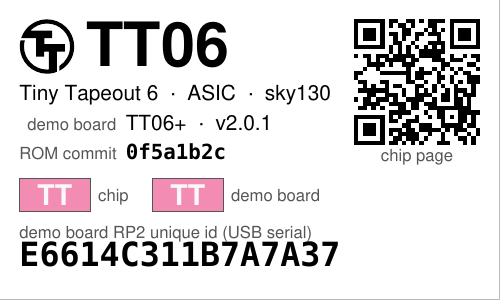
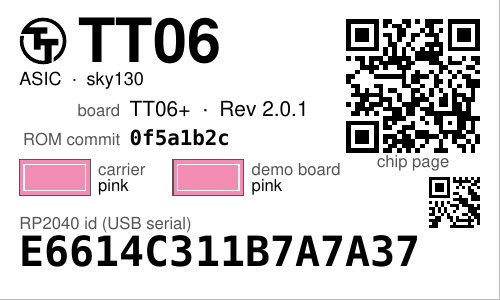
labels: Tiny Tapeout label reworked after the visual review
The colour boxes are always drawn: keyline rectangle in the board colour
with the silkscreen colour as an inner line, empty with "n/a" when the
colour is not recorded, the colour's name in 6 pt beside each, captions
"carrier" and "demo board" (the pink-on-pink "TT" glyph is gone). The
RP2 id at the foot is set like the FPGA label's DNA line (15 pt mono,
caption "RP2040 id (USB serial)" or RP2350 as the SDK reported) and gets
a small error-L QR above it in the right column, so every typeable
identifier is scannable; the chip-page QR grows to 17 mm with the 2.5 mm
quiet zone kept. The subtitle drops the restated shuttle name and is set
at the Pi subtitle's fixed 6.5 pt, so it never shrinks; the demo board
row reads "name  ·  Rev x.y" from both SDK forms; the row caption is
"board"; the mark is 6 mm centred on the headline's cap height; the rows
are on one pitch. README and the two example images follow.

Claude-Session: https://claude.ai/code/session_017ibyTnuBCnNY7ACKAkdRiT

Changed region(s): [[0.03, 0.03, 0.84, 0.9], [0.69, 0.06, 0.96, 0.78]]

diff --git a/src/rpi_hwid/labels.py b/src/rpi_hwid/labels.py
@@ -33,6 +33,7 @@ from __future__ import annotations
 import argparse
 import json
 import os
+import re
 import sys
 from dataclasses import dataclass
 from pathlib import Path
@@ -558,77 +559,100 @@ def draw_usb(lab, dev):
 
 
 def swatch(lab, x, y, w, h, colour, silk):
-    """A board-colour rectangle with a thin keyline, carrying "TT" in its
-    silkscreen colour the way the board's own legend does."""
+    """A colour-identification box: a keyline rectangle filled with the
+    board colour, with a thin inner line in the silkscreen colour when that
+    is known; empty with "n/a" inside when the colour is not recorded."""
     c = lab.c
     px, py = lab.pt(x, y + h)
-    c.setFillColor(HexColor(colour))
-    c.setStrokeColor(HexColor("#555555"))
+    c.setStrokeColor(GREY)
     c.setLineWidth(0.4)
-    c.rect(px, py, w, h, stroke=1, fill=1)
-    if silk:
-        size = h * 0.62 / 0.72
-        lab.text(x + w / 2, y + (h - size * 0.72) / 2, "TT", SANS_BOLD, size,
-                 align="centre", color=HexColor(silk))
+    if colour:
+        c.setFillColor(HexColor(colour))
+        c.rect(px, py, w, h, stroke=1, fill=1)
+        if silk:
+            inset = 0.6 * mm
+            c.setStrokeColor(HexColor(silk))
+            c.setLineWidth(0.5)
+            c.rect(px + inset, py + inset, w - 2 * inset, h - 2 * inset, stroke=1, fill=0)
+    else:
+        c.rect(px, py, w, h, stroke=1, fill=0)
+        lab.text(x + w / 2, y + (h - CAPTION * 0.72) / 2, "n/a", SANS, CAPTION,
+                 align="centre", color=GREY)
     c.setStrokeColor(black)
     c.setFillColor(black)
 
 
 def draw_tinytapeout(lab, tt):
-    """Left: the Tiny Tapeout mark and the shuttle as the headline, the
-    chip's long name, kind and PDK under it, then the demo board revision
-    and the ROM commit as captioned rows, then a colour swatch for the chip
-    carrier and one for the demo board so the right board is picked out
-    of a drawer. Right: a QR that opens the chip's page on tinytapeout.com.
-    Bottom, full width: the demo board's RP2 unique id, the one thing on
-    the board that cannot change."""
-    grey = HexColor("#555555")
-    qr_size = 16 * mm
+    """Left: the Tiny Tapeout mark beside the shuttle as the headline, the
+    chip's kind and PDK under it, then the demo board and the ROM commit as
+    captioned rows, then a colour box each for the chip carrier and the
+    demo board (board colour, silkscreen colour as the inner line, the
+    colour's name beside it) so the right board is picked out of a drawer.
+    Right: a QR that opens the chip's page on tinytapeout.com, and a small
+    QR of the RP2 id above the foot. Bottom, full width: the demo board's
+    RP2 unique id, its USB serial, the one thing on it that cannot change,
+    set like the FPGA label's DNA."""
+    # --- right column: the chip page QR, its caption, the id's QR ---
+    qr_size = 17 * mm
     qx = LABEL_W - PAD - qr_size
     lab.qr(qx, PAD, qr_size, tt.url)
-    lab.text(qx + qr_size / 2, PAD + qr_size + 0.6 * mm, "chip page", SANS, 6,
-             align="centre", color=grey)
-
-    x, y = PAD, PAD
-    col_w = qx - 2 * mm - x
-    mark_h = 7 * mm
-    w = mark_tinytapeout(lab, x, y, mark_h)
-    tx = x + (w + 1.5 * mm if w else 0)
-    lab.fit(tx, y + 0.4 * mm, tt.headline, SANS_BOLD, 22, col_w - (tx - x))
-    y += mark_h + 1.4 * mm
-    lab.fit(x, y, tt.subtitle, SANS, 7.5, col_w)
-    y += 3.9 * mm
-    cap_x = x + 13.5 * mm
-    lab.captioned(x, cap_x, y, "demo board", tt.demoboard_text, SANS, 7.5, col_w - 13.5 * mm)
-    y += 3.7 * mm
-    if tt.commit:
-        lab.captioned(x, cap_x, y, "ROM commit", tt.commit, MONO, 7.5, col_w - 13.5 * mm)
-    else:
-        lab.captioned(x, cap_x, y, "ROM", "not read", SANS, 7.5, col_w - 13.5 * mm)
-    y += 4.3 * mm
-
-    # the swatches: board colour with its silkscreen; the shuttle name in
-    # the swatch's place when the colour is not recorded
-    sw, sh = 9 * mm, 4.2 * mm
-    sx = x
-    for cap, colour, silk in (("chip", tt.chip_colour, tt.chip_silk),
-                              ("demo board", tt.demoboard_colour, tt.demoboard_silk)):
-        if colour:
-            swatch(lab, sx, y, sw, sh, colour, silk)
-        else:
-            lab.fit(sx, y + (sh - 7 * 0.72) / 2, tt.headline, SANS_BOLD, 7, sw)
-        lab.text(sx + sw + 1 * mm, y + (sh - 6 * 0.72) / 2, cap, SANS, 6, color=grey)
-        sx += sw + 1 * mm + lab.width(cap, SANS, 6) + 3 * mm
-
-    id_size = 12
-    id_h = 6.8 * mm
-    y = LABEL_H - PAD - id_h
-    lab.text(PAD, y, "demo board RP2 unique id (USB serial)", SANS, 6, color=grey)
-    y += 6 * 0.72 + 0.5 * mm
+    lab.text(qx + qr_size / 2, PAD + qr_size + 0.4 * mm, "chip page", SANS, CAPTION,
+             align="centre", color=GREY)
+    id_size = 15
+    id_h = 6 * mm
+    id_y = LABEL_H - PAD - id_h
+    id_qr = 6.5 * mm                   # 21 modules at 0.31 mm, like the Pi serial's
     if tt.usb_serial:
-        lab.fit(PAD, y, tt.usb_serial, MONO, id_size, LABEL_W - 2 * PAD)
+        # 1.2 mm (four modules) under the caption; the id line below it is
+        # shorter than the label, so nothing runs under the code
+        lab.qr(LABEL_W - PAD - id_qr, id_y - 0.5 * mm - id_qr, id_qr, tt.usb_serial,
+               error="l")
+
+    # --- left column ---
+    x, y = PAD, PAD
+    col_w = qx - 2.5 * mm - x
+    head_size = 22
+    head_cap = head_size * 0.72
+    mark_h = 6 * mm
+    w = mark_tinytapeout(lab, x, y + (head_cap - mark_h) / 2, mark_h)
+    tx = x + (w + 1.5 * mm if w else 0)
+    lab.fit(tx, y, tt.headline, SANS_BOLD, head_size, col_w - (tx - x))
+    y += head_cap + 1.2 * mm
+    lab.text(x, y, tt.subtitle, SANS, 6.5)          # fixed size, like the Pi subtitle
+    row = 3.7 * mm
+    y += row
+    cap_w = 14 * mm
+    lab.captioned(x, x + cap_w, y, "board", tt.demoboard_text, SANS, 7.5, col_w - cap_w)
+    y += row
+    if tt.commit:
+        lab.captioned(x, x + cap_w, y, "ROM commit", tt.commit, MONO, 7.5, col_w - cap_w)
     else:
-        lab.rule(PAD, y + id_size * 0.72, LABEL_W - 2 * PAD)
+        lab.captioned(x, x + cap_w, y, "ROM", "not read", SANS, 7.5, col_w - cap_w)
+    y += row
+
+    # the colour boxes, each with its caption over its colour's name
+    sw, sh = 9 * mm, 4.5 * mm
+    line = CAPTION * 0.72 + 0.6 * mm
+    for i, (cap, colour, silk, name) in enumerate((
+            ("carrier", tt.chip_colour, tt.chip_silk, tt.chip_colour_name),
+            ("demo board", tt.demoboard_colour, tt.demoboard_silk, tt.demoboard_colour_name))):
+        sx = x + i * (col_w / 2)
+        swatch(lab, sx, y, sw, sh, colour, silk)
+        if name:
+            ty = y + (sh - 2 * line + 0.6 * mm) / 2
+            lab.text(sx + sw + 1 * mm, ty, cap, SANS, CAPTION, color=GREY)
+            lab.text(sx + sw + 1 * mm, ty + line, name, SANS, CAPTION)
+        else:
+            lab.text(sx + sw + 1 * mm, y + (sh - CAPTION * 0.72) / 2, cap, SANS, CAPTION,
+                     color=GREY)
+
+    # --- the foot: the id, caption over it, like the DNA line ---
+    cap_y = id_y + 0.5 * mm - CAPTION * 0.72 - 0.9 * mm
+    lab.text(PAD, cap_y, "%s id (USB serial)" % (tt.mcu or "RP2"), SANS, CAPTION, color=GREY)
+    if tt.usb_serial:
+        lab.fit(PAD, id_y + 0.5 * mm, tt.usb_serial, MONO, id_size, LABEL_W - 2 * PAD)
+    else:
+        lab.rule(PAD, id_y + 0.5 * mm + id_size * 0.72 + 0.3 * mm, LABEL_W - 2 * PAD)
 
 
 # --- records from probe documents --------------------------------------------
@@ -677,17 +701,20 @@ class TinyTapeoutLabel:
 
     host: str
     headline: str                    # "TT06", "FPGA", "TT"
-    subtitle: str                    # "Tiny Tapeout 6  ·  ASIC  ·  sky130"
+    subtitle: str                    # "ASIC  ·  sky130"
     url: str                         # the chip page, or the chips index
-    demoboard_text: str
+    demoboard_text: str              # "TT06+  ·  Rev 2.0.1"
     shuttle: str | None = None
     chip: str | None = None
     commit: str | None = None
     usb_serial: str | None = None
+    mcu: str | None = None           # RP2040 | RP2350
     chip_colour: str | None = None   # hex, from the table
     chip_silk: str | None = None
+    chip_colour_name: str | None = None
     demoboard_colour: str | None = None
     demoboard_silk: str | None = None
+    demoboard_colour_name: str | None = None
 
 
 @dataclass(frozen=True)
@@ -746,6 +773,19 @@ def fpga_records(docs, pinned_names=None):
     return out
 
 
+def demoboard_text(detected, version):
+    """'TT06+' and 'v2.0.1' -> 'TT06+  ·  Rev 2.0.1'; the v3 SDK's
+    'TTDBv3 [3.2]' -> 'TTDBv3  ·  Rev 3.2'; nothing known -> 'not read'."""
+    name, rev = detected or "", None
+    m = re.match(r"^(.*?)\s*\[([^\]]*)\]$", name)
+    if m:
+        name, rev = m.group(1), m.group(2)
+    if not rev and version:
+        rev = version.lstrip("vV")
+    parts = [p for p in (name, ("Rev " + rev) if rev else "") if p]
+    return "  ·  ".join(parts) if parts else "not read"
+
+
 def tinytapeout_records(docs):
     """One record per Tiny Tapeout demo board across all documents."""
     out = []
@@ -755,24 +795,25 @@ def tinytapeout_records(docs):
             if b.chip == "fpga":
                 headline, parts = "FPGA", ["FPGA breakout, no ASIC"]
             elif b.shuttle:
-                headline = tt_data.shuttle_short(b.shuttle)
-                parts = [tt_data.shuttle_title(b.shuttle), "ASIC"]
+                headline, parts = tt_data.shuttle_short(b.shuttle), ["ASIC"]
                 pdk = tt_data.shuttle_pdk(b.shuttle)
                 if pdk:
                     parts.append(pdk)
             else:
                 headline, parts = "TT", ["shuttle not read"]
-            demo = [v for v in (b.demoboard, b.demoboard_version or info["demoboard_version"])
-                    if v]
             out.append(TinyTapeoutLabel(
                 host=host, headline=headline, subtitle="  ·  ".join(parts),
                 url=info["url"] or tt_data.CHIPS_INDEX_URL,
-                demoboard_text="  ·  ".join(demo) if demo else "not read",
+                demoboard_text=demoboard_text(
+                    b.demoboard, b.demoboard_version or info["demoboard_version"]),
                 shuttle=b.shuttle, chip=b.chip, commit=b.commit, usb_serial=b.usb_serial,
+                mcu=b.mcu,
                 chip_colour=tt_data.COLOURS.get(info["chip_colour"] or ""),
                 chip_silk=tt_data.COLOURS.get(info["chip_silk"] or ""),
+                chip_colour_name=info["chip_colour"],
                 demoboard_colour=tt_data.COLOURS.get(info["demoboard_colour"] or ""),
                 demoboard_silk=tt_data.COLOURS.get(info["demoboard_silk"] or ""),
+                demoboard_colour_name=info["demoboard_colour"],
             ))
     return out
 

diff --git a/tests/test_labels.py b/tests/test_labels.py
@@ -42,18 +42,31 @@ def test_fpga_records_named_and_typed(docs):
 def test_tinytapeout_records(docs):
     tt06, ihp = labels.tinytapeout_records(docs)
     assert tt06.headline == "TT06"
-    assert tt06.subtitle == "Tiny Tapeout 6  ·  ASIC  ·  sky130"
+    assert tt06.subtitle == "ASIC  ·  sky130"
     assert tt06.url == "https://tinytapeout.com/chips/tt06/"
-    assert tt06.demoboard_text == "TT06+  ·  v2.0.1"
+    assert tt06.demoboard_text == "TT06+  ·  Rev 2.0.1"
     assert tt06.commit == "0f5a1b2c"
     assert tt06.usb_serial == "E6614C311B7A7A37"
+    assert tt06.mcu == "RP2040"
     assert (tt06.chip_colour, tt06.chip_silk) == ("#f28cb3", "#f8f8f8")
+    assert (tt06.chip_colour_name, tt06.demoboard_colour_name) == ("pink", "pink")
     assert (tt06.demoboard_colour, tt06.demoboard_silk) == ("#f28cb3", "#f8f8f8")
     assert ihp.headline == "TTIHP25a"
-    assert ihp.subtitle == "Tiny Tapeout IHP 25a  ·  ASIC  ·  ihp-sg13g2"
-    assert ihp.demoboard_text == "TTDBv3 [3.2]"
+    assert ihp.subtitle == "ASIC  ·  ihp-sg13g2"
+    assert ihp.demoboard_text == "TTDBv3  ·  Rev 3.2"
+    assert ihp.mcu == "RP2350"
     assert ihp.chip_colour is None
+    assert ihp.chip_colour_name is None
     assert ihp.demoboard_colour is None
+
+
+def test_demoboard_text_normalises_both_sdk_forms():
+    assert labels.demoboard_text("TT06+", "v2.0.1") == "TT06+  ·  Rev 2.0.1"
+    assert labels.demoboard_text("TTDBv3 [3.3]", None) == "TTDBv3  ·  Rev 3.3"
+    assert labels.demoboard_text("TTDBv3 [3.3]", "v9") == "TTDBv3  ·  Rev 3.3"
+    assert labels.demoboard_text("TT04/TT05", None) == "TT04/TT05"
+    assert labels.demoboard_text(None, "v1.2.1") == "Rev 1.2.1"
+    assert labels.demoboard_text(None, None) == "not read"
 
 
 def test_tinytapeout_records_without_a_rom_or_with_the_fpga_breakout():
@@ -70,12 +83,13 @@ def test_tinytapeout_records_without_a_rom_or_with_the_fpga_breakout():
     assert blank.headline == "TT"
     assert blank.subtitle == "shuttle not read"
     assert blank.demoboard_text == "TT04/TT05"
+    assert blank.mcu is None
     assert blank.commit is None
     assert blank.usb_serial is None
     # a shuttle the table has no page for falls back to the chips index
     (t35,) = labels.tinytapeout_records({"h": doc({"shuttle": "tt03p5", "chip": "asic"})})
     assert t35.url == "https://tinytapeout.com/chips/"
-    assert t35.demoboard_text == "v1.2.1"
+    assert t35.demoboard_text == "Rev 1.2.1"
     assert t35.chip_colour == "#5c2d91"
 
 
@@ -124,6 +138,7 @@ def test_render_and_decode_every_qr(data_dir, tmp_path):
         "00:0e:c6:82:b5:e1",                              # the dongle
         "https://tinytapeout.com/chips/tt06/",            # the chip pages
         "https://tinytapeout.com/chips/ttihp25a/",
+        "E6614C311B7A7A37", "E66360B8A3C1D5F2",           # the demo boards' RP2 ids
         # the Pi serials, as a small QR at the top of each Pi label's spine
         "d88100008543dc30", "000000004fe3e7e4", "10000000ce8e3593",
         "000000005157f671", "c36b093f773d46b8", "100000003a7e1c9b",

diff --git a/tests/conftest.py b/tests/conftest.py
@@ -111,6 +111,7 @@ TT_HOST["verdict"]["tinytapeout"] = [
      "tty": "/dev/ttyACM0", "shuttle": "tt06", "chip": "asic",
      "repo": "TinyTapeout/tinytapeout-06", "commit": "0f5a1b2c", "demoboard": "TT06+",
      "demoboard_version": "v2.0.1", "sdk": "2.0.4", "machine": "Raspberry Pi Pico with RP2040",
+     "mcu": "RP2040",
      "chip_url": "https://tinytapeout.com/chips/tt06/",
      "how": "Tiny Tapeout SDK 2.0.4 on Raspberry Pi Pico with RP2040 (USB 1-1.2); "
             "chip ROM shuttle=tt06; demo board TT06+"},
@@ -118,16 +119,16 @@ TT_HOST["verdict"]["tinytapeout"] = [
      "tty": "/dev/ttyACM1", "shuttle": "ttihp25a", "chip": "asic",
      "repo": "TinyTapeout/tinytapeout-ihp-25a", "commit": "7b3d9e02",
      "demoboard": "TTDBv3 [3.2]", "demoboard_version": None, "sdk": "3.1.1",
-     "machine": "TinyTapeout RP2350B Core with RP2350",
+     "machine": "TinyTapeout RP2350B Core with RP2350", "mcu": "RP2350",
      "chip_url": "https://tinytapeout.com/chips/ttihp25a/",
      "how": "Tiny Tapeout SDK 3.1.1 on TinyTapeout RP2350B Core with RP2350 (USB 1-1.3); "
             "chip ROM shuttle=ttihp25a; demo board TTDBv3 [3.2]"},
 ]
 TT_HOST["verdict"]["summary"]["tinytapeout"] = [
-    {"usb_serial": "E6614C311B7A7A37", "shuttle": "tt06", "chip": "asic",
+    {"usb_serial": "E6614C311B7A7A37", "mcu": "RP2040", "shuttle": "tt06", "chip": "asic",
      "repo": "TinyTapeout/tinytapeout-06", "commit": "0f5a1b2c", "demoboard": "TT06+",
      "demoboard_version": "v2.0.1", "sdk": "2.0.4"},
-    {"usb_serial": "E66360B8A3C1D5F2", "shuttle": "ttihp25a", "chip": "asic",
+    {"usb_serial": "E66360B8A3C1D5F2", "mcu": "RP2350", "shuttle": "ttihp25a", "chip": "asic",
      "repo": "TinyTapeout/tinytapeout-ihp-25a", "commit": "7b3d9e02",
      "demoboard": "TTDBv3 [3.2]", "demoboard_version": None, "sdk": "3.1.1"},
 ]

diff --git a/README.md b/README.md
@@ -186,12 +186,16 @@ concerned, `2e8a:0005` "MicroPython" "Board in FS mode" with the RP2's
 flash unique id as its serial. What makes it a Tiny Tapeout board is the
 SDK, so the module then drives the board's raw REPL over `/dev/ttyACM*`
 (opened with `os.open` and `termios`, no pyserial needed) and asks the SDK
-what it already holds: the chip ROM it read at boot (`shuttle=`, `repo=`,
-`commit=`, present on every chip since TT05; `FPGA` on the FPGA breakout),
-the demo board it detected (`TT04/TT05`, `TT06+`, `TTDBv3 [3.2]`) and its
-own version. That interrupts whatever the board is running (at boot,
-nothing) and never resets it; every read has a deadline, and a board that
-cannot be reached stays a candidate. `--no-repl` stops at the USB tree.
+what it already holds: the copy of the chip ROM that the boot cached
+(`shuttle=`, `repo=`, `commit=`, present on every chip since TT05; `FPGA`
+on the FPGA breakout), the demo board it detected (`TT04/TT05`, `TT06+`,
+`TTDBv3 [3.2]`) and its own version. Reading the ROM afresh would drive
+the chip's pins, so the probe never does: when the boot did not read it
+(a custom `main.py`, say) the ROM is reported as not cached, with the
+reason. Asking interrupts whatever the board is running (at boot,
+nothing), never resets it and touches no pin; every read and write has a
+deadline, and a board that cannot be reached stays a candidate.
+`--no-repl` stops at the USB tree.
 
 ```
 $ rpi-hwid tinytapeout             # a Pi 4 with a TT06 dev kit on USB
@@ -358,14 +362,15 @@ when it has not been read yet.
 <img src="https://raw.githubusercontent.com/mithro/rpi-hwid/main/docs/examples/acorn.png" alt="Acorn CLE-215+, DNA not yet read" width="32%">
 </p>
 
-**Tiny Tapeout boards.** The shuttle is the headline, with the chip's
-long name, ASIC or FPGA breakout, and PDK under it; then the demo board as
-the SDK detected it and the revision that shipped in that kit, and the
-chip ROM's commit. The two swatches are the chip carrier's and the demo
-board's colours with "TT" in their silkscreen colour, so the right board
-is picked out of a drawer (the shuttle name stands in where a colour is
-not recorded). The QR opens the chip's page on tinytapeout.com, and the
-demo board's RP2 unique id, its USB serial, runs along the bottom.
+**Tiny Tapeout boards.** The shuttle is the headline, with ASIC or FPGA
+breakout and the PDK under it; then the demo board as the SDK detected it
+with the revision that shipped in that kit, and the chip ROM's commit. The
+two colour boxes are the chip carrier's and the demo board's colours, the
+silkscreen colour as the inner line and the colour's name beside each, so
+the right board is picked out of a drawer (an empty box marked n/a where
+the colour is not recorded). The large QR opens the chip's page on
+tinytapeout.com; the demo board's RP2 unique id, its USB serial, runs
+along the bottom with its own small QR above it.
 
 <p>
 <img src="https://raw.githubusercontent.com/mithro/rpi-hwid/main/docs/examples/tinytapeout.png" alt="TT06 chip on a TT06+ demo board" width="49%">
